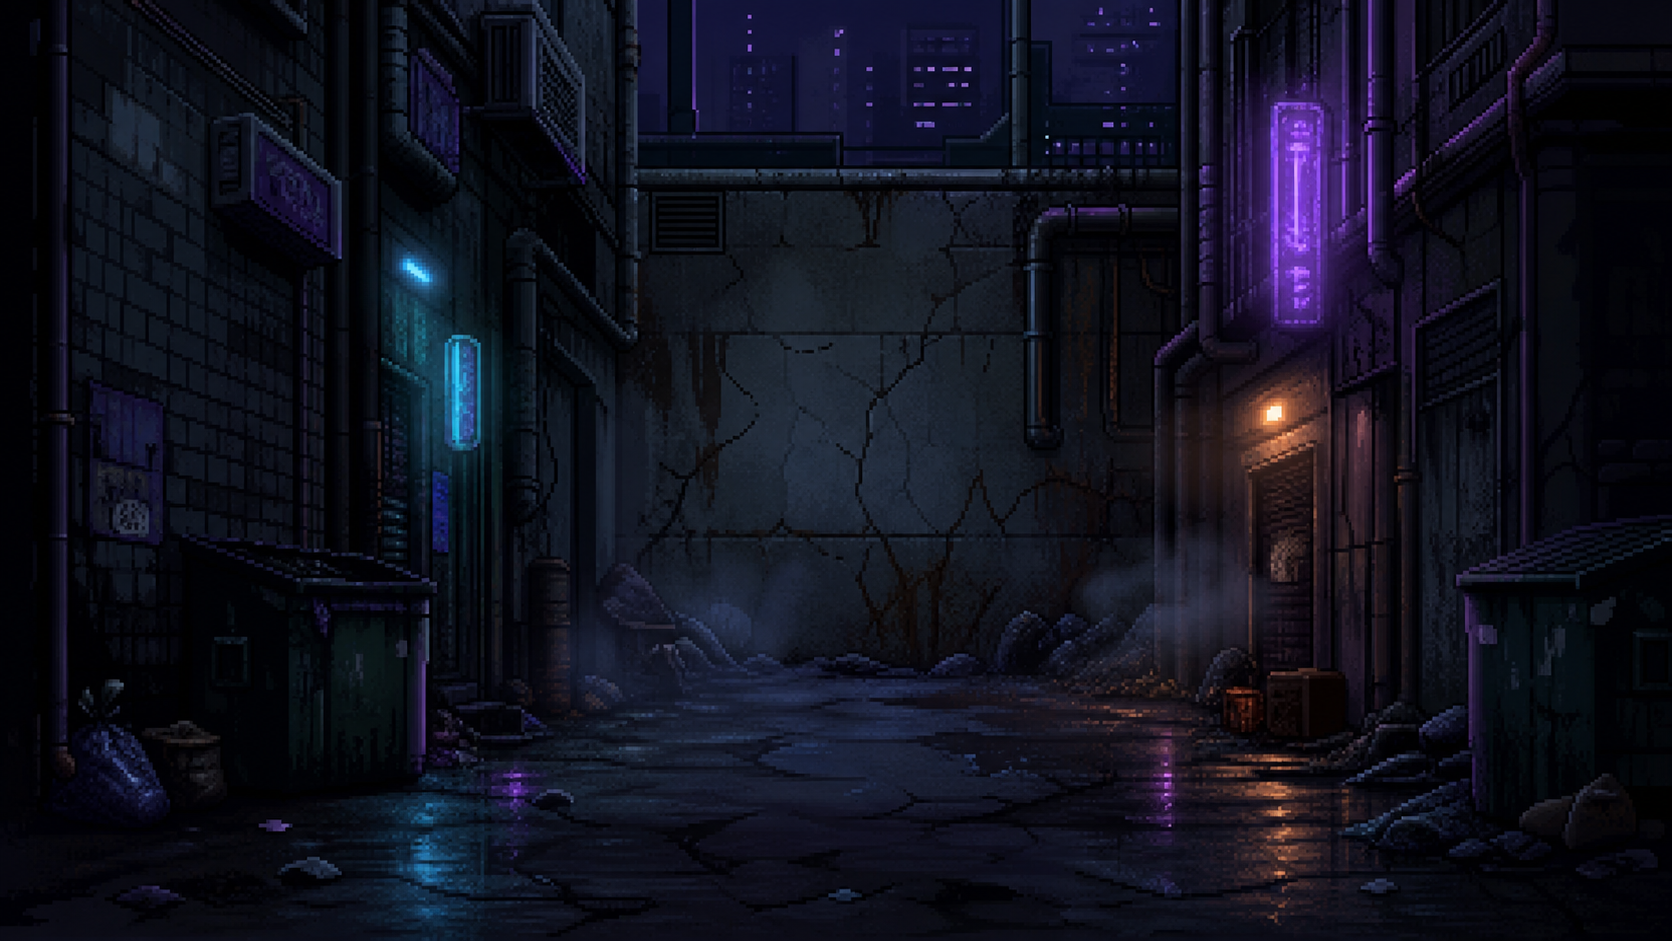
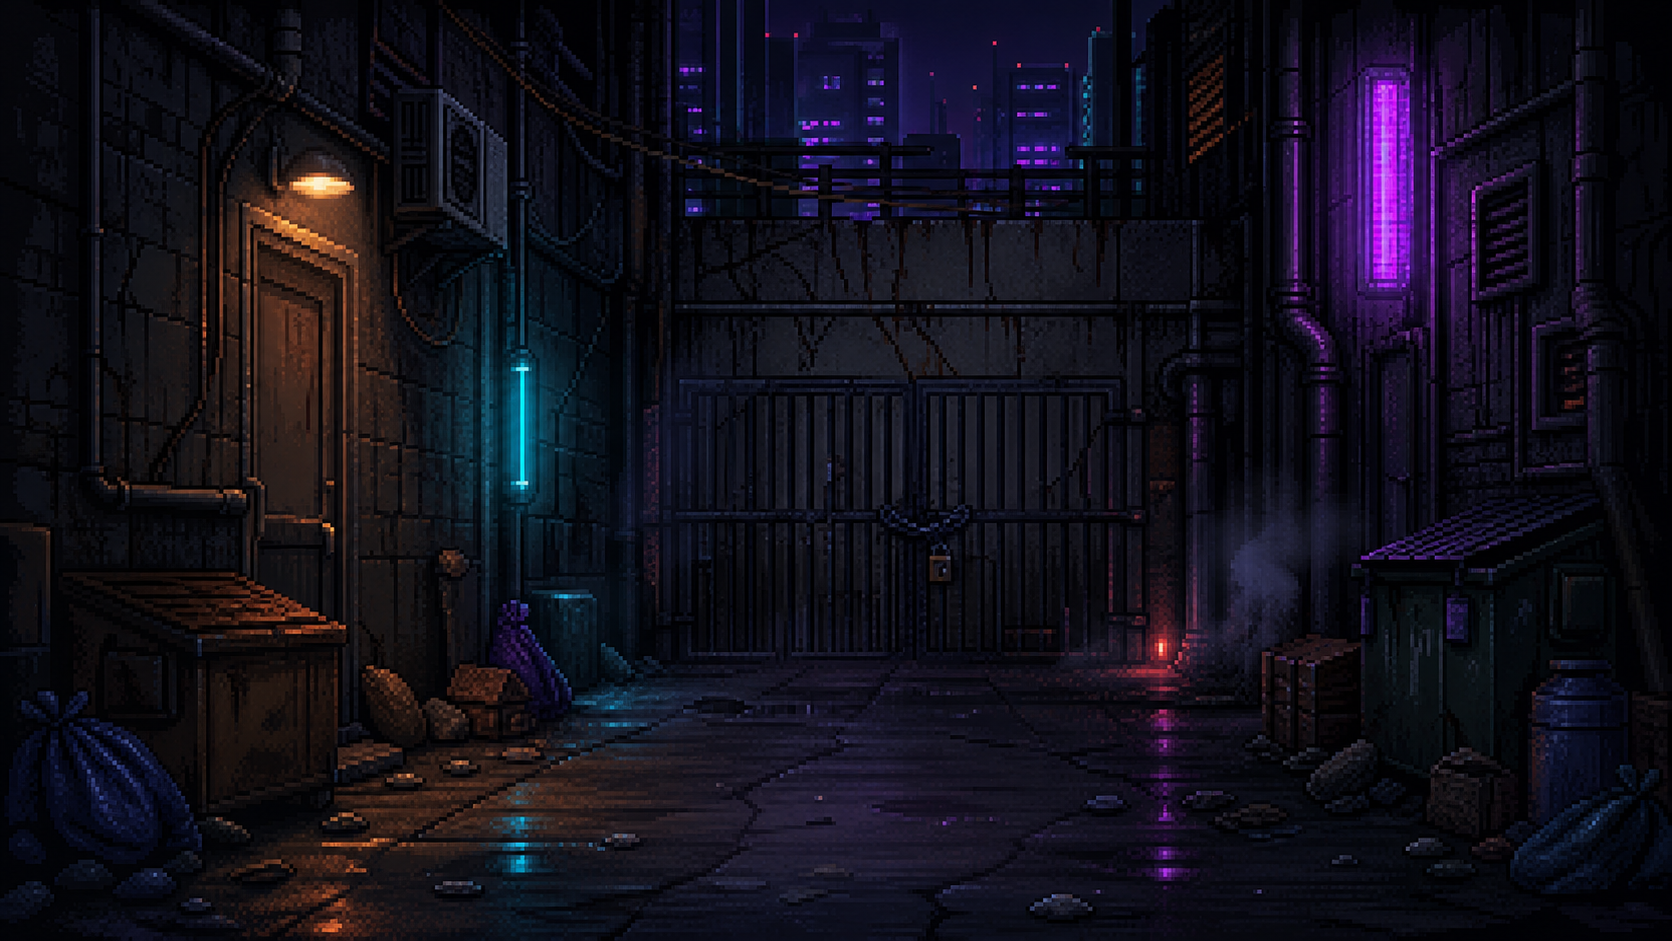
Use route background choices

diff --git a/src/components/WalkHomeScene.tsx b/src/components/WalkHomeScene.tsx
@@ -1,7 +1,9 @@
 import { useEffect, useState } from "react";
 import { modVitals } from "@/components/VitalsHUD";
 import dangerStreetImg from "@/assets/background_danger.jpg";
-import deadEndImg from "@/assets/background_dead_end_v2.png";
+import deadEndImg from "@/assets/background_dead_end.png";
+import pathChoiceImg from "@/assets/path_choice.png";
+import rightPathImg from "@/assets/right_path.png";
 
 type Props = {
   coins: number;
@@ -10,7 +12,7 @@ type Props = {
 };
 
 type RouteChoice = "left" | "right" | "dead-end";
-type ScenePhase = "choose" | "ambush" | "escaped" | "safe" | "dead-end";
+type ScenePhase = "choose" | "ambush" | "escaped" | "right-route" | "safe" | "dead-end";
 
 const ESCAPE_STEPS = [
   { id: "left", label: "←", text: "Свернуть за вывеску" },
@@ -44,12 +46,16 @@ export function WalkHomeScene({ coins, onSpend, onHome }: Props) {
   };
 
   const chooseRightPath = () => {
-    modVitals({ stability: 5 });
     setChoice("right");
-    setPhase("safe");
+    setPhase("right-route");
     setOutcome(
-      "Ты выбрал правую освещённую улицу. Дольше, зато район звучит тише, и мысли собираются обратно в одну линию.",
+      "Правая улица светлее. Неон отражается в лужах, а впереди виден спокойный поворот к дому.",
     );
+  };
+
+  const chooseRightHome = () => {
+    modVitals({ stability: 5 });
+    onHome();
   };
 
   const chooseDeadEnd = () => {
@@ -116,12 +122,23 @@ export function WalkHomeScene({ coins, onSpend, onHome }: Props) {
 
   return (
     <div className="fixed inset-0 z-[120] overflow-hidden bg-[#060914] text-white animate-fade-in">
-      {(phase === "ambush" || phase === "dead-end") && (
+      {(
+        phase === "choose" ||
+        phase === "ambush" ||
+        phase === "right-route" ||
+        phase === "dead-end"
+      ) && (
         <div
-          className="absolute inset-0 opacity-50"
+          className="absolute inset-0 opacity-55"
           style={{
             backgroundImage: `linear-gradient(rgba(3,7,18,0.35), rgba(3,7,18,0.88)), url(${
-              phase === "dead-end" ? deadEndImg : dangerStreetImg
+              phase === "choose"
+                ? pathChoiceImg
+                : phase === "right-route"
+                  ? rightPathImg
+                  : phase === "dead-end"
+                    ? deadEndImg
+                    : dangerStreetImg
             })`,
             backgroundSize: "cover",
             backgroundPosition: "center",
@@ -130,7 +147,9 @@ export function WalkHomeScene({ coins, onSpend, onHome }: Props) {
       )}
       <div
         className={`absolute inset-0 bg-gradient-to-b from-[#080b1d] via-[#161331] to-[#07040d] ${
-          phase === "ambush" || phase === "dead-end" ? "opacity-75" : ""
+          phase === "choose" || phase === "ambush" || phase === "right-route" || phase === "dead-end"
+            ? "opacity-70"
+            : ""
         }`}
       />
       <div className="absolute inset-x-0 top-[18%] h-48 opacity-80">
@@ -171,7 +190,7 @@ export function WalkHomeScene({ coins, onSpend, onHome }: Props) {
           </div>
 
           {phase === "choose" ? (
-            <div className="mt-5 grid gap-3 sm:grid-cols-3">
+            <div className="mt-5 grid gap-3 sm:grid-cols-2">
               <button
                 type="button"
                 onClick={chooseLeftPath}
@@ -190,16 +209,6 @@ export function WalkHomeScene({ coins, onSpend, onHome }: Props) {
                 <span className="block font-['Press_Start_2P'] text-[10px]">Правый путь</span>
                 <span className="mt-2 block text-xs font-semibold opacity-80">
                   Светлее и спокойнее. Дольше, зато +5 стабильности.
-                </span>
-              </button>
-              <button
-                type="button"
-                onClick={chooseDeadEnd}
-                className="border-4 border-[#0a1016] bg-[#fbbf24] px-4 py-3 text-left text-[#0a1016] shadow-[5px_5px_0_0_#0a1016] transition-transform hover:bg-[#fde68a] active:translate-x-[2px] active:translate-y-[2px] active:shadow-[3px_3px_0_0_#0a1016]"
-              >
-                <span className="block font-['Press_Start_2P'] text-[10px]">Тупик</span>
-                <span className="mt-2 block text-xs font-semibold opacity-80">
-                  Закрытые ворота. Быстро, но придётся развернуться.
                 </span>
               </button>
             </div>
@@ -276,6 +285,37 @@ export function WalkHomeScene({ coins, onSpend, onHome }: Props) {
                     </button>
                   );
                 })}
+              </div>
+            </div>
+          ) : phase === "right-route" ? (
+            <div className="mt-5">
+              <div className="rounded-md border border-emerald-300/25 bg-emerald-400/10 p-4 text-sm leading-relaxed text-emerald-50">
+                <div className="mb-2 text-[10px] uppercase tracking-[0.24em] text-emerald-300/80">
+                  маршрут: правый
+                </div>
+                {outcome}
+              </div>
+              <div className="mt-4 grid gap-3 sm:grid-cols-2">
+                <button
+                  type="button"
+                  onClick={chooseRightHome}
+                  className="border-4 border-[#0a1016] bg-[#34d399] px-4 py-3 text-left text-[#0a1016] shadow-[5px_5px_0_0_#0a1016] transition-transform hover:bg-[#6ee7b7] active:translate-x-[2px] active:translate-y-[2px] active:shadow-[3px_3px_0_0_#0a1016]"
+                >
+                  <span className="block font-['Press_Start_2P'] text-[10px]">Домой</span>
+                  <span className="mt-2 block text-xs font-semibold opacity-80">
+                    Идти по свету и вернуться в комнату.
+                  </span>
+                </button>
+                <button
+                  type="button"
+                  onClick={chooseDeadEnd}
+                  className="border-4 border-[#0a1016] bg-[#fbbf24] px-4 py-3 text-left text-[#0a1016] shadow-[5px_5px_0_0_#0a1016] transition-transform hover:bg-[#fde68a] active:translate-x-[2px] active:translate-y-[2px] active:shadow-[3px_3px_0_0_#0a1016]"
+                >
+                  <span className="block font-['Press_Start_2P'] text-[10px]">Тупик</span>
+                  <span className="mt-2 block text-xs font-semibold opacity-80">
+                    Проверить закрытые ворота.
+                  </span>
+                </button>
               </div>
             </div>
           ) : (
